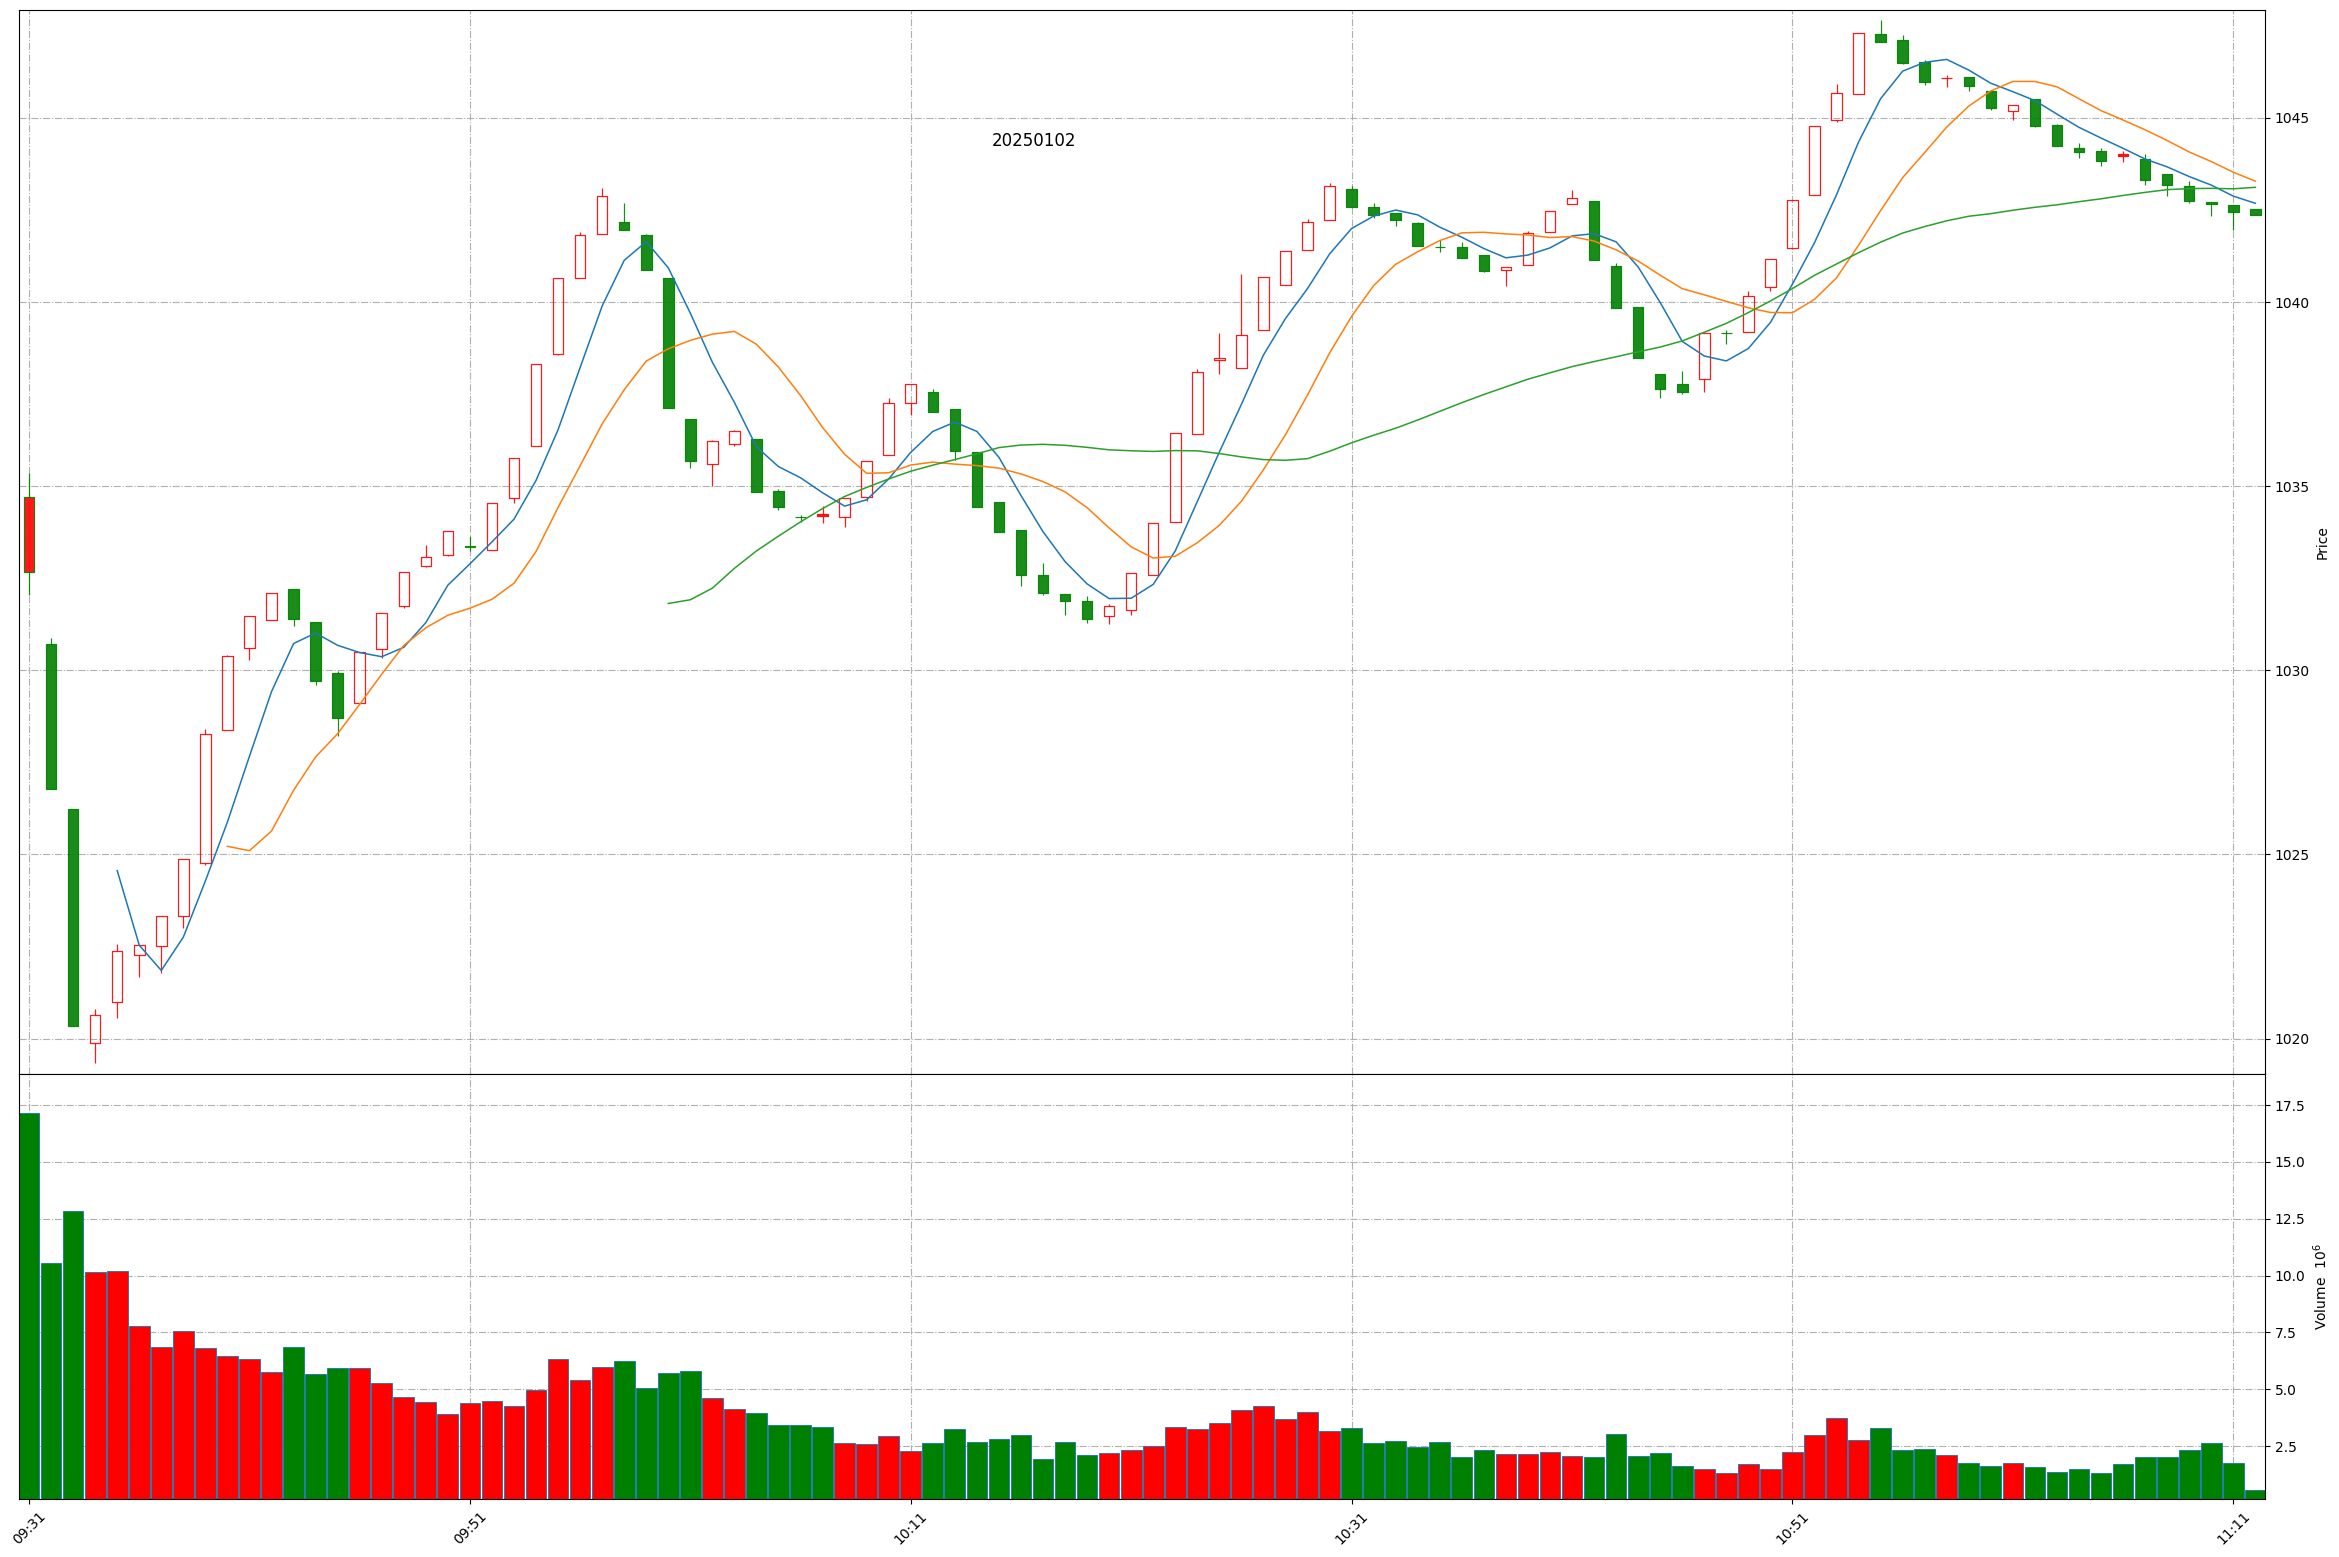
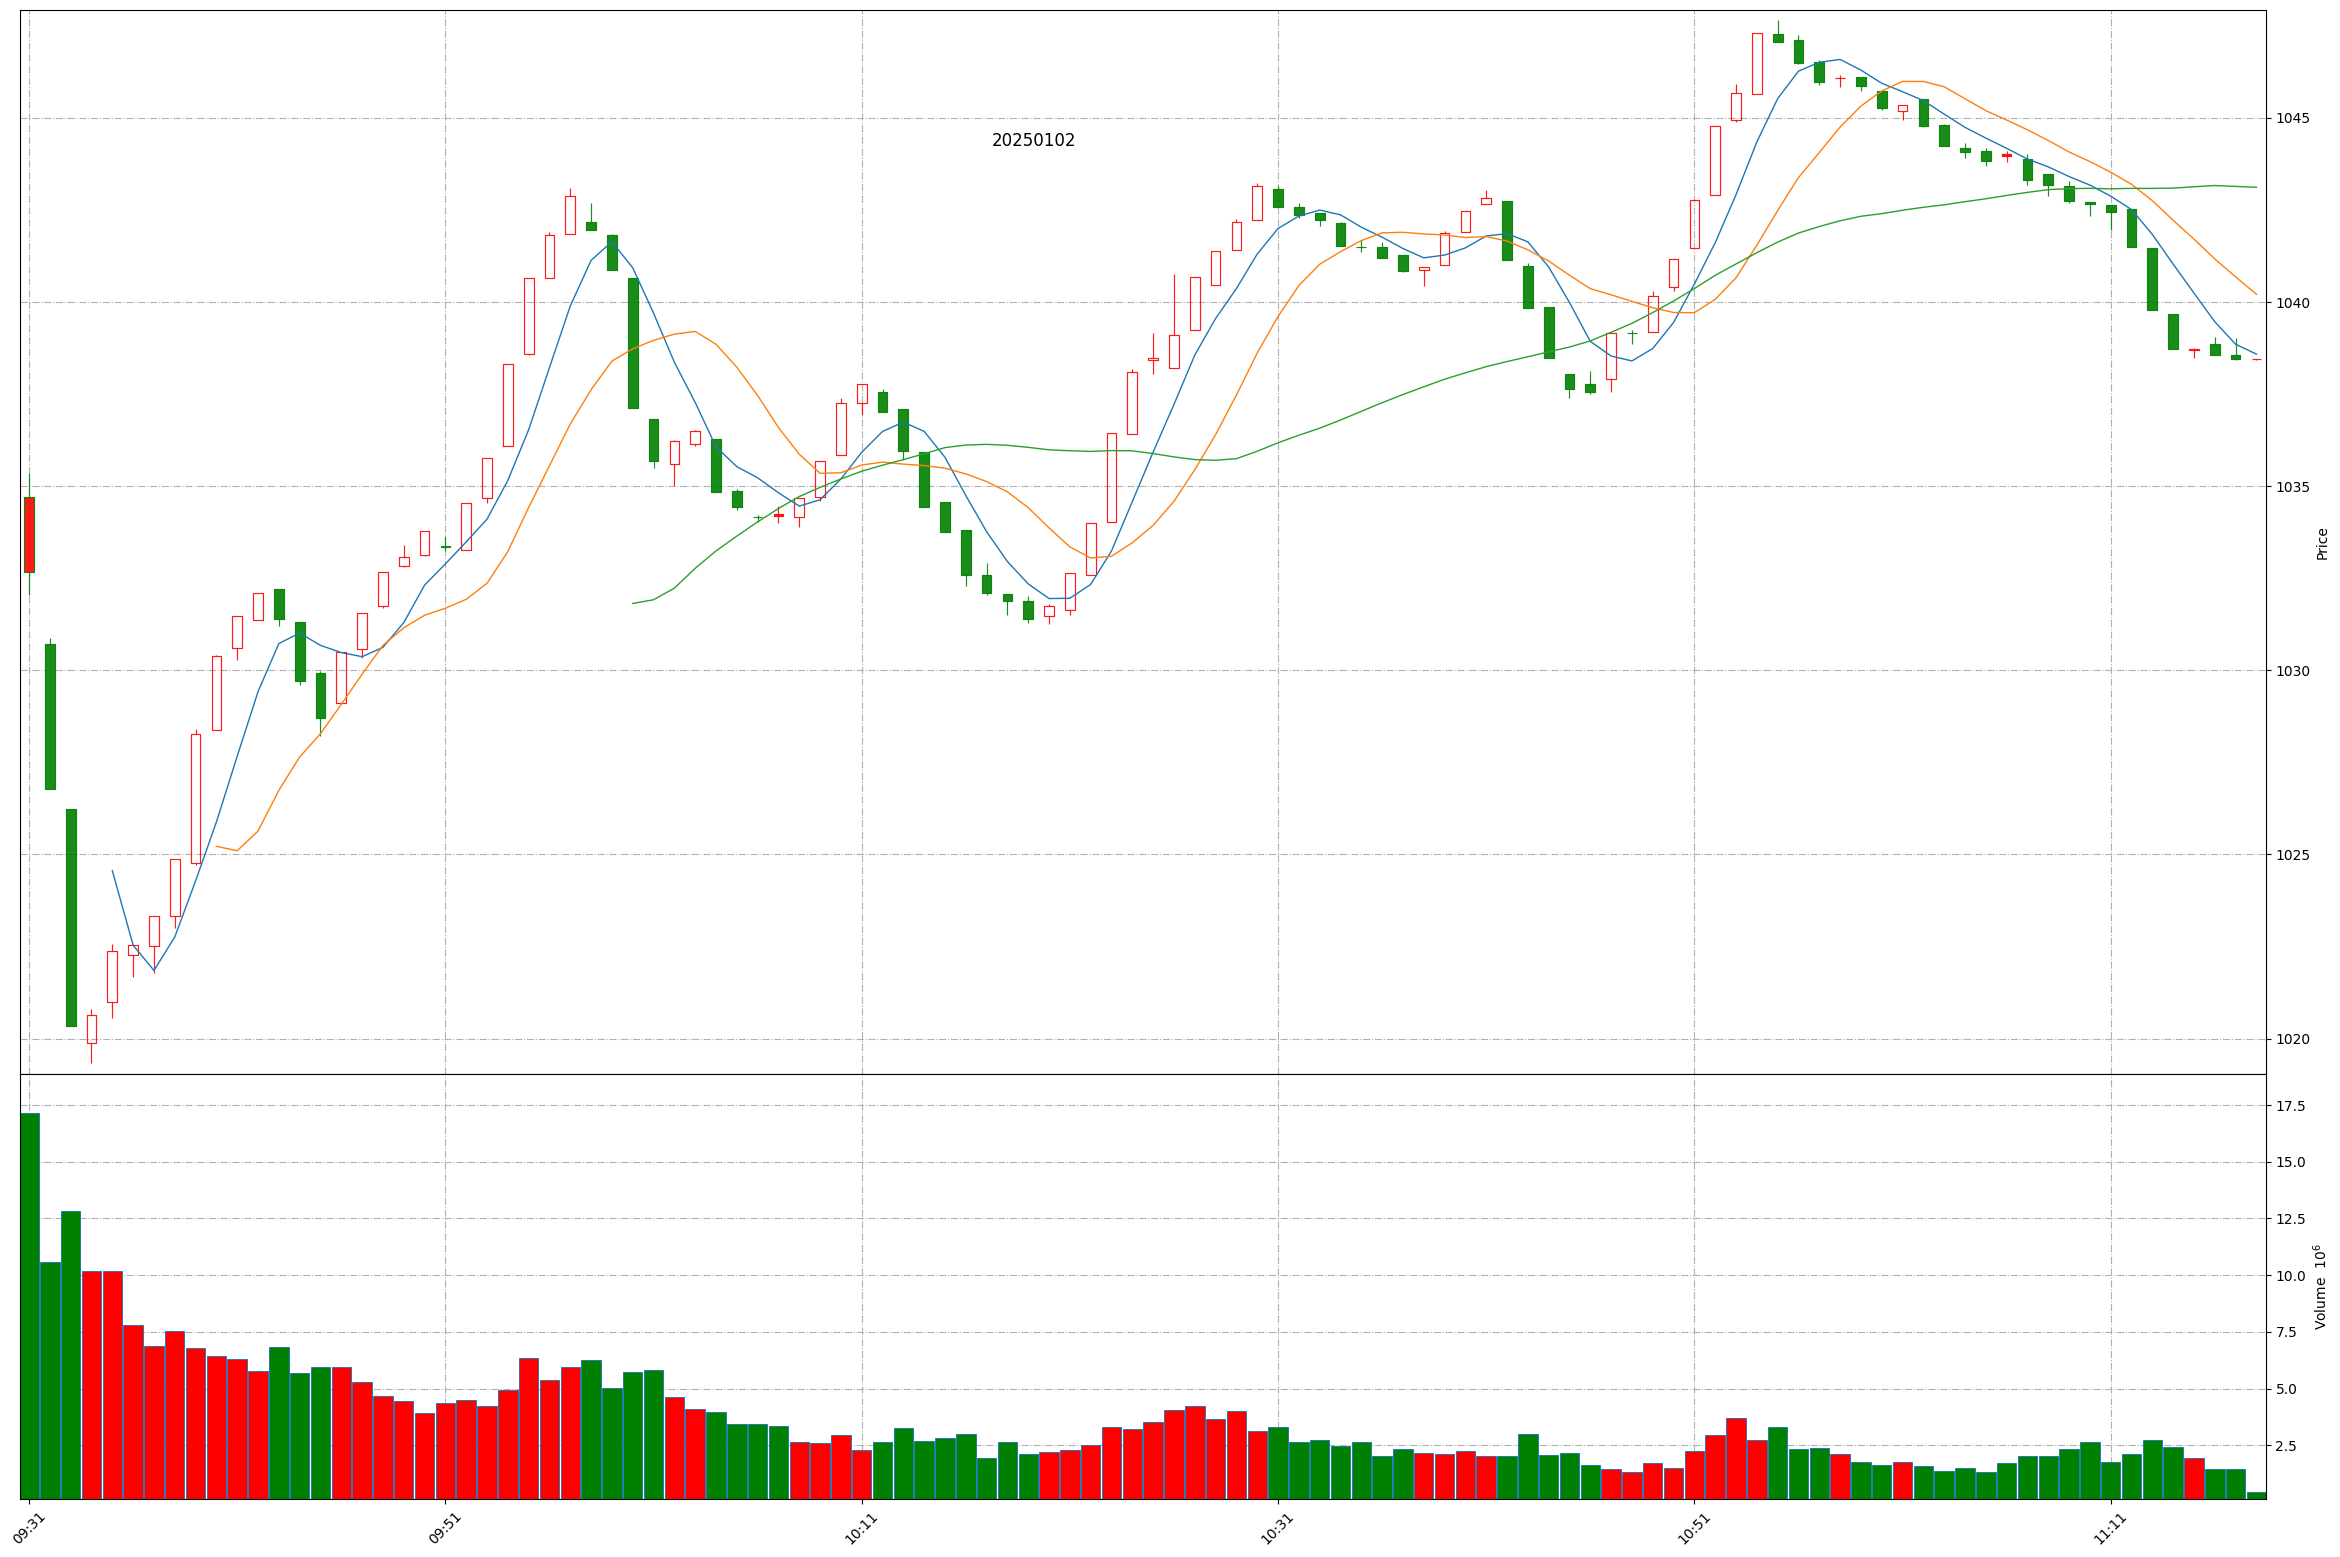
Github action update at 2025-01-02 11:17:33.

diff --git a/README.md b/README.md
@@ -1,11 +1,11 @@
 
 # Daily-A-share-market-quotes 每日 A 股指数（5min 更新）- 20250102
 
-### 上证指数 20250102 11:11
+### 上证指数 20250102 11:17
 ![](./fig/2025/1/20250102-sh000001.png)
 
-### 深证成指 20250102 11:11
+### 深证成指 20250102 11:17
 ![](./fig/2025/1/20250102-sz399001.png)
 
-### 北证50 20250102 11:11
+### 北证50 20250102 11:17
 ![](./fig/2025/1/20250102-bj899050.png)
